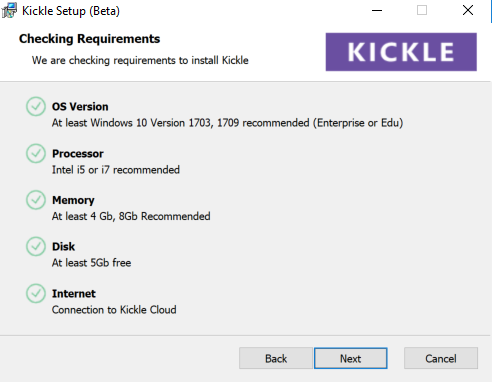
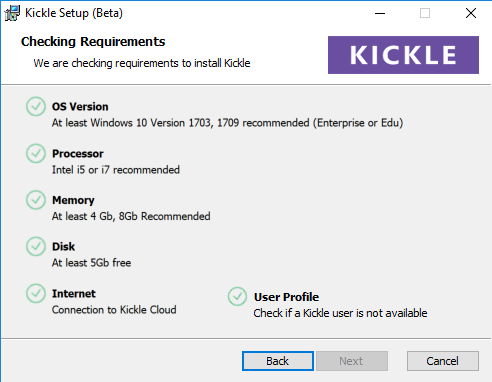
Update Beta Page

diff --git a/Docs/beta/installer.md b/Docs/beta/installer.md
@@ -18,10 +18,15 @@ To install Kickle, you must check off the following requirements:
 * **Processor** : Intel i5 (i7 recommended)
 * **RAM** : At least 4 GB (8GB recommended)
 * **Disk** : At least 5GB of available space
-* Internet Connexion
+* **Network**: Do not use a WiFi connection during Kickle installation. If you do, installation will stop. You can use WiFi at a later time, though it is not recommended.  The computer should be connected to Internet.
 * 1920x1080 pixels maximal screen resolution (recommended)
 
 All of these requirements are verified during installation.
+
+We've tested Kickle on the following hardware pieces:
+
+* INTEL NUC 7 mini-pc series, 8GB DDR minimum, SSD drive, Intel Core i7 minimum. 
+* DELL optiplex 7050 micro form factor series, 8GB DDR minimum, SSD drive, Intel Core i7 minimum. 
 
 **Domain** : Do not join your Windows 10 to a domain before installing Kickle. You can join to the domain after installing Kickle.
 
@@ -52,8 +57,6 @@ All of these steps are rolled back when you uninstall kickle
 
 You may start a clean install of Windows. The only point to keep in mind, which is of particular importance, concerns the default user: a “Kickle” user is created during installation, so be sure not to create another user with this same username in order to avoid confusion.
 
-You may add Kickle to your domain. Just be sure that your domain’s GPOs are not overriding the above configuration.
-
 ##Kickle Installation
 
 The MSI guides you through each step. Two reboots are necessary during this process. 
@@ -75,9 +78,17 @@ All components are automatically downloaded and installed following the final re
 As of today, we are not supporting a change to the default installation location.
 
 ##Troubleshooting
+### Problem during installation
 If you encounter any error during installation, the installer will roll back all modifications. 
 If necessary, you can also start the installation with logs by using the following command:
 
 ``` powershell
 msiexec /i Kickle.deploy.msi /l*v log.txt
+```
+
+### Kickle always on "Checking Updates"
+You can connect to Admin session by clicking on the kickle logo. A new cmd session will start and you can enter the command below to log out.
+
+``` powershell
+shutdown -l
 ```
